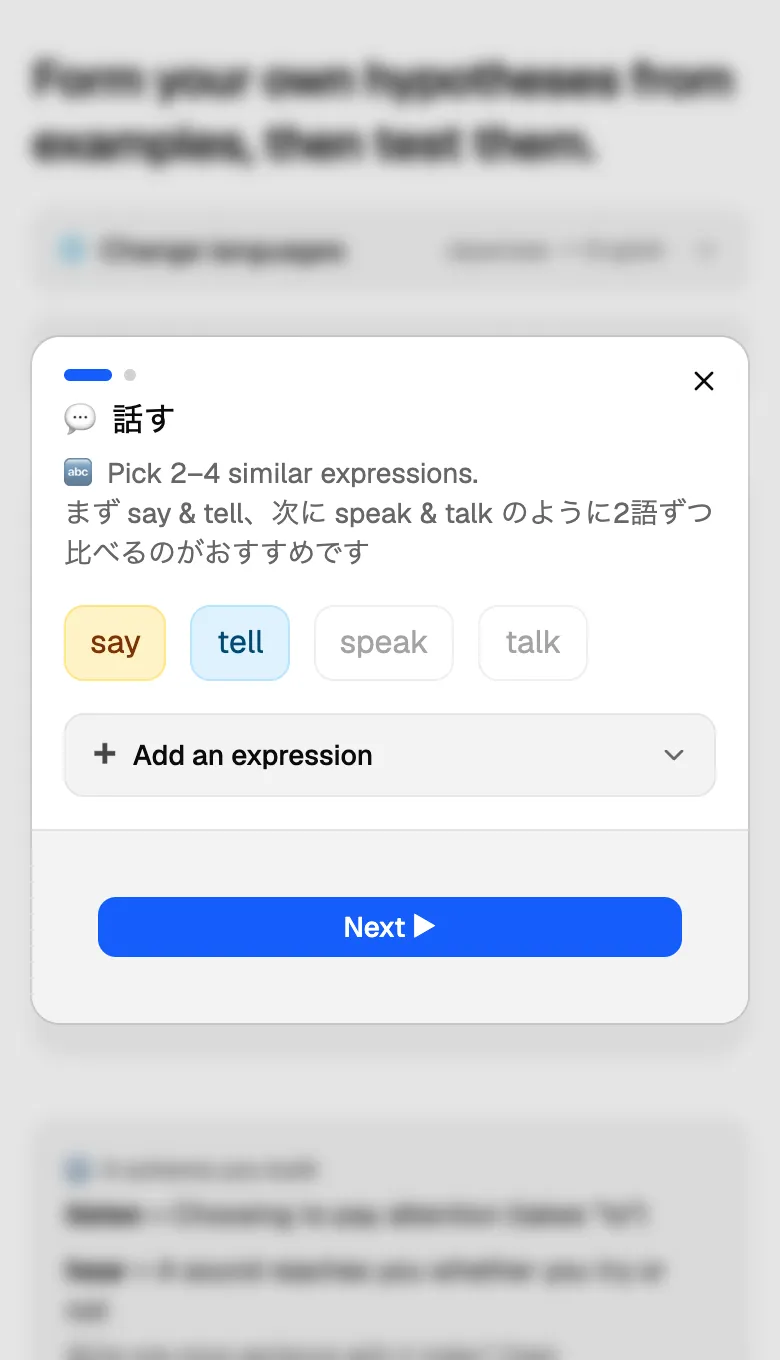
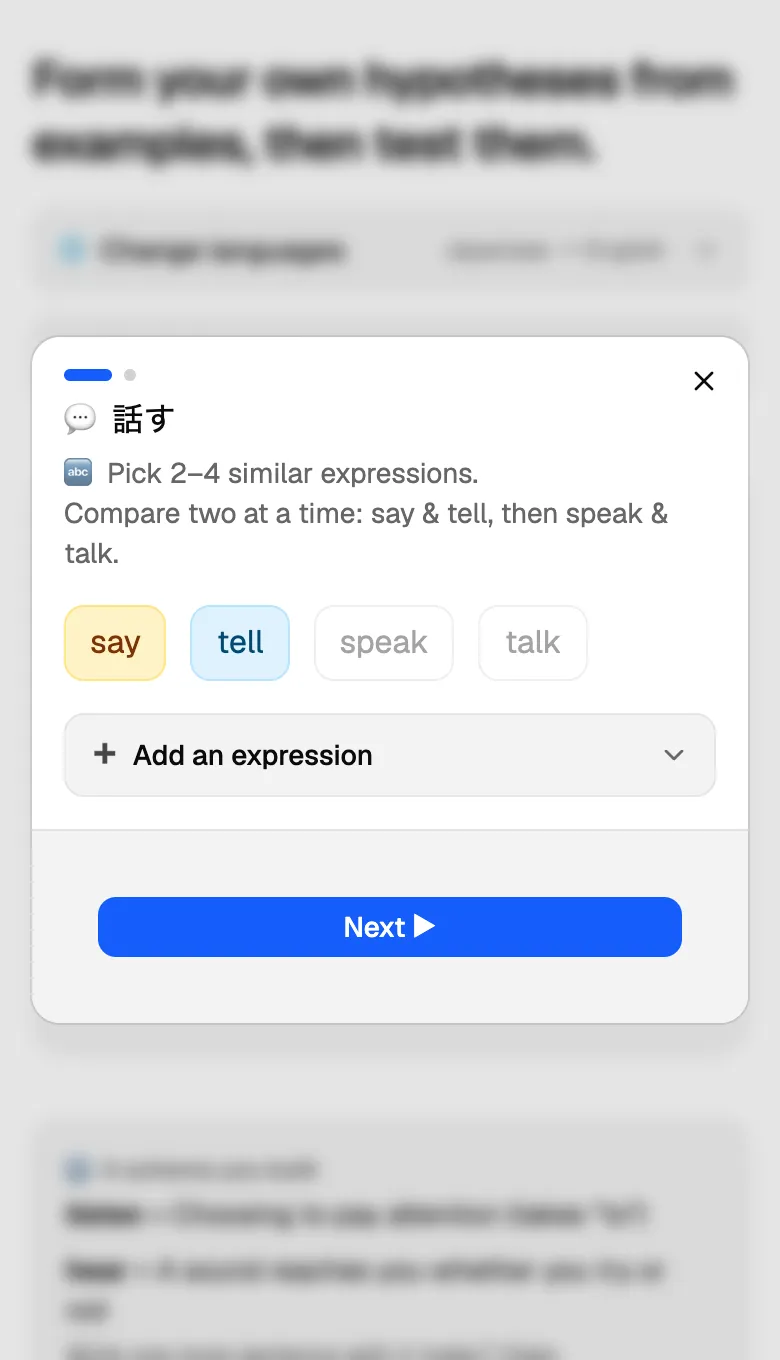
コースのヒントを l1 ではなく画面の言語で出す
新規探究ダイアログの1ステップ目の説明は2行あり、1行目は t() を
通して uiLang（画面の言語）に従うのに対し、2行目の group.hint だけが
l1（学習者の母語）で引かれていた。そのため画面を英語にしていても、
ja→en コース（l1 = ja）では2行目だけ日本語のままになっていた。

hint を uiLang 引きに変え、あわせて en のヘルプのスクリーンショット
（words スライド）を撮り直した。

Changed region(s): [[0.0923, 0.3706, 0.9231, 0.4324]]

diff --git a/src/components/inquiry/NewInquiryDialog.tsx b/src/components/inquiry/NewInquiryDialog.tsx
@@ -12,6 +12,7 @@ import { Select, SelectContent, SelectItem, SelectTrigger, SelectValue } from "@
 import { defaultExampleSettings, type CourseGroup, type ExampleSettings } from "@/lib/courses";
 import { createInquiry } from "@/lib/db";
 import { useT } from "@/lib/i18n";
+import { useSettings } from "@/lib/settings";
 import type { ExamplesParams, Target, TargetKind } from "@/lib/types";
 import { cn } from "@/lib/utils";
 import { ExampleSettingsFields, GenreTiles } from "./ExampleOptions";
@@ -45,6 +46,8 @@ export function NewInquiryDialog({
   onOpenChange: (o: boolean) => void;
 }) {
   const t = useT();
+  // The hint sits on the same line as t()-translated copy, so it follows the screen language, not l1.
+  const { uiLang } = useSettings();
   const nav = useNavigate();
   const [step, setStep] = useState(0);
   const [targets, setTargets] = useState<Target[]>(() =>
@@ -116,7 +119,7 @@ export function NewInquiryDialog({
           <DialogTitle>{title}</DialogTitle>
           <DialogDescription className="whitespace-pre-line">
             {step === 0
-              ? `${t({ ja: "🔤 比べる語を選びます（2〜4個）。", en: "🔤 Pick 2–4 similar expressions." })}\n${group?.hint ? group.hint[l1] ?? group.hint.en : t({ ja: "2語ずつ比べるのがいちばん見通しがよいです。", en: "Two at a time is easiest to see." })}`
+              ? `${t({ ja: "🔤 比べる語を選びます（2〜4個）。", en: "🔤 Pick 2–4 similar expressions." })}\n${group?.hint ? group.hint[uiLang] ?? group.hint.en : t({ ja: "2語ずつ比べるのがいちばん見通しがよいです。", en: "Two at a time is easiest to see." })}`
               : t({ ja: "🎬 どんな場面の例文で比べるかを選びます。", en: "🎬 Pick the kind of scene to compare in." })}
           </DialogDescription>
         </DialogHeader>

diff --git a/src/lib/courses.ts b/src/lib/courses.ts
@@ -5,7 +5,7 @@ export interface CourseGroup {
   label: Record<string, string>; // L1 label keyed by l1 code, with fallback "en"
   emoji: string;
   targets: Omit<Target, "id">[];
-  hint?: Record<string, string>;
+  hint?: Record<string, string>; // UI copy keyed by uiLang code, with fallback "en"
 }
 
 export interface Course {
